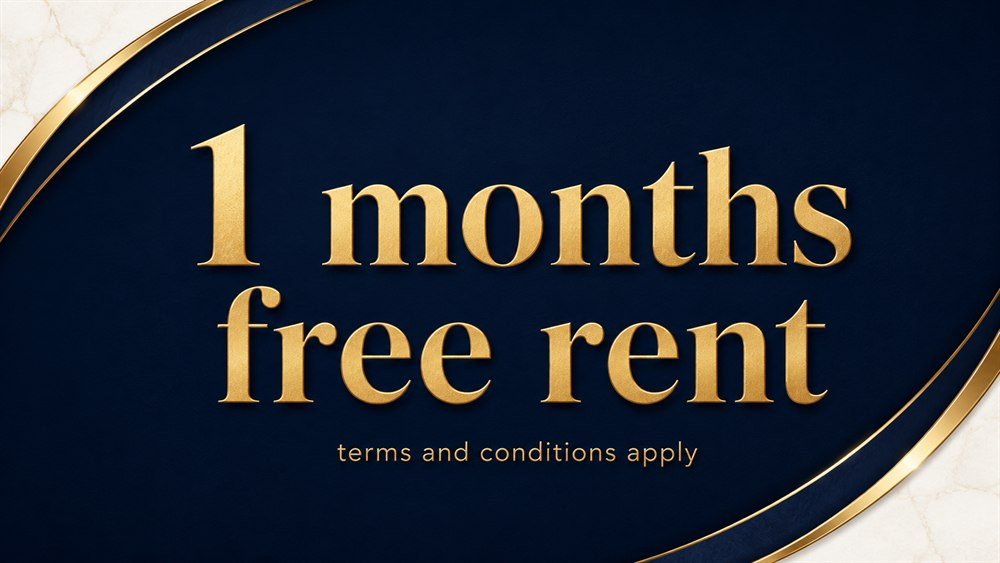
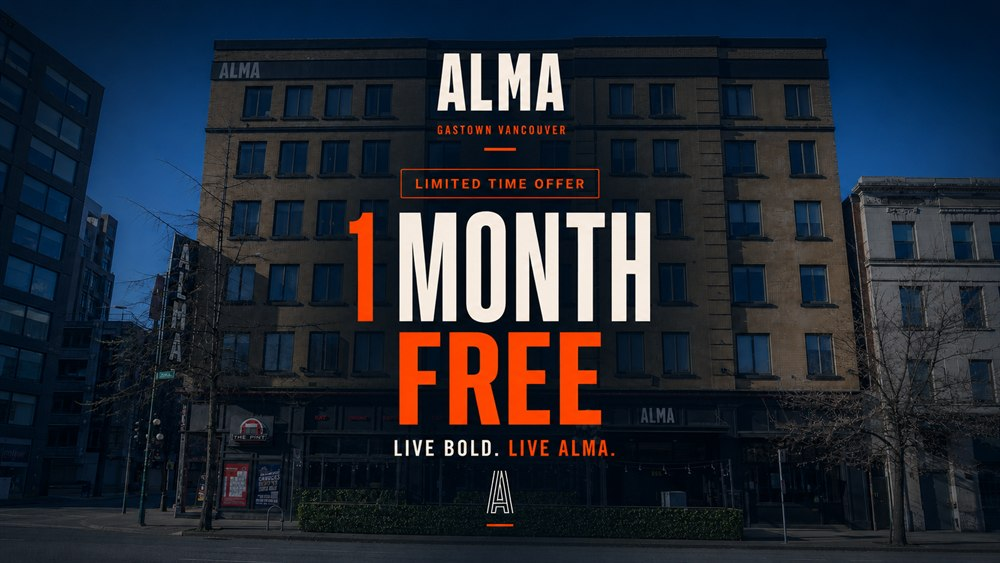
Add files via upload

diff --git a/units.js b/units.js
@@ -16,12 +16,12 @@
   var UNITS_STANDARD = [
     { num: 251, rent: 1848, videoId: "xNEewx8bYEs" },
     { num: 365, rent: 1841, videoId: "6ZWoaPv2iuM" },
-    { num: 665, rent: 1841, videoId: "J37rhAHwxHI" },
     { num: 370, rent: 1800, videoId: "CUQlwEY_tBI" },
-    { num: 672, rent: 1891, videoId: "euMLwF_natU" }
+    { num: 672, rent: 1891, videoId: "euMLwF_natU" },
+    { num: 553, rent: 1694, videoId: "" } // walkthrough coming soon
   ];
   var UNITS_SHORT = [
-    { num: 565, rent: 2046, videoId: "pP9hCHbYE6M" },
+    { num: 271, rent: 1995, videoId: "5Xid7jBf9SY" },
     { num: 256, rent: 1757, videoId: "9ky6iQ1oBow" }
   ];
   var UNITS = UNITS_STANDARD.concat(UNITS_SHORT); // combined, for currency + schema

diff --git a/styles.css b/styles.css
@@ -416,7 +416,7 @@ h1, h2, h3 { line-height: 1.04; font-weight: 700; letter-spacing: -0.01em; overf
 .footer-grid h3 { font-size: var(--fs-50); text-transform: uppercase; letter-spacing: 0.16em; color: rgba(255,255,255,0.55); margin-bottom: var(--sp-4); }
 .footer-grid a { color: rgba(255,255,255,0.8); display: block; padding-block: var(--sp-1); }
 .footer-grid a:hover { color: var(--white); }
-.footer-grid .social-row a { display: inline-flex; padding: 0; }
+.footer-grid .social-row a { display: grid; place-items: center; padding: 0; }
 .footer-bottom { display: flex; justify-content: space-between; gap: var(--sp-4); flex-wrap: wrap; margin-top: var(--sp-16); padding-top: var(--sp-6); border-top: 1px solid var(--line-on-dark); font-size: var(--fs-50); color: rgba(255,255,255,0.55); }
 
 /* ---------------------------------------------------------------------

diff --git a/GRAPH_REPORT.md b/GRAPH_REPORT.md
@@ -70,8 +70,12 @@ merged into `index.html` and deleted, per the owner's single-website requirement
   shadow lift) and `.btn-ripple` (expanding blue circles; needs 5 empty `<span>`s + 1 label
   span). Featured on the contact band.
 - **Unit cards** use a floating gradient header (negative-margin media + colored shadow).
-- **Video modal is portrait (9:16)** to fit the vertical YouTube tour videos. Unit 665 has the
-  first real `videoId` (`AuJsVOf0lS0`).
+- **Video modal is portrait (9:16)** to fit the vertical YouTube tour videos. Each unit's
+  `videoId` (in `units.js`) drives its thumbnail and in-page player; a unit with `videoId: ""`
+  simply renders without a play button (walkthrough pending).
+- **YouTube Error 153 fix:** `<meta name="referrer" ...>` + the player iframe sets
+  `referrerPolicy="strict-origin-when-cross-origin"`, loads from `youtube.com` with `playsinline`
+  and an `&origin` (only on http(s)). Must be tested on a host/localhost, not `file://`.
 - **Footer social:** Instagram (`@thisismyalma`) + WhatsApp (`[phone redacted]`) only.
 - **Two more layout bugs fixed:** `.hero-inner` used `max-width: 18ch` (ch on the small
   container font ≈ 150px, squeezing the hero); now `min(100%, 60rem)` and fully responsive.